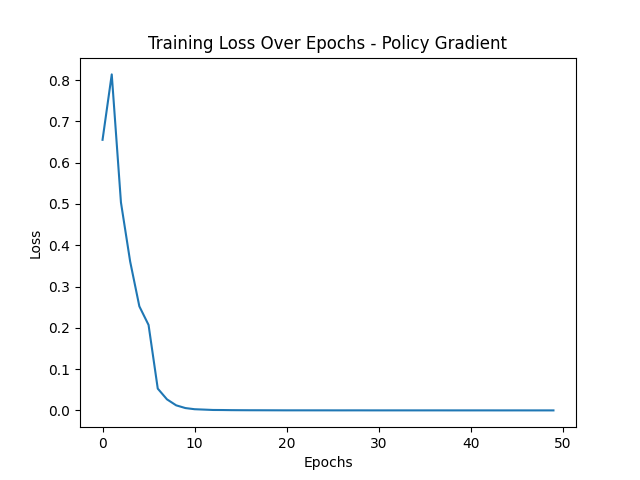
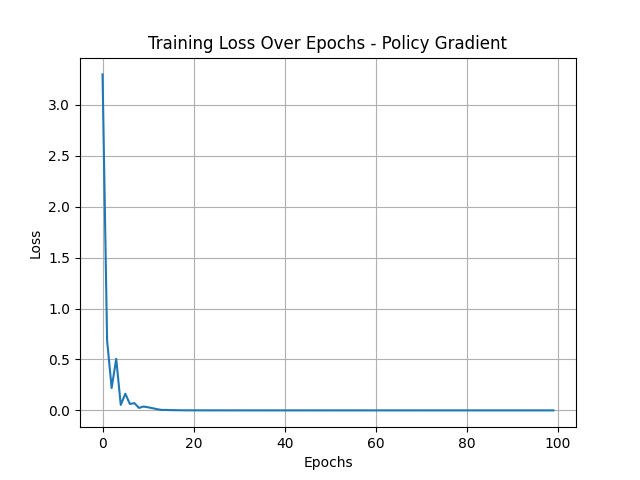
final results

diff --git a/training/rl/training.py b/training/rl/training.py
@@ -1,14 +1,27 @@
 import os
 import torch
+import random
+import numpy as np
 import matplotlib.pyplot as plt
 from models.rl.agent import Agent
 from utils.config_loader import LLM_CONFIG
 
+
+# Se aplica una semilla para reproducibilidad
+seed = 42
+random.seed(seed)
+np.random.seed(seed)
+torch.manual_seed(seed)
+
 loss_history = []
+avg_rewards = []
+avg_rewards_bandit_1 = []
+avg_rewards_bandit_2 = []
 
 
 
-num_epochs = 50
+
+num_epochs = 100
 bandit_1 = ["bean", "chickpea"]
 bandit_2 = ["lentil", "rice"]
 allowed_words = bandit_1 + bandit_2
@@ -45,41 +58,88 @@ optimizer = torch.optim.AdamW(
 )
 optimizer.load_state_dict(agent.checkpoints['optimizer_state_dict'])
 
+
+
 for epoch in range(num_epochs):
     agent.model.train()
     optimizer.zero_grad()
     total_loss = 0.0
+    total_reward = 0.0
+    total_reward_bandit_1 = 0.0
+    total_reward_bandit_2 = 0.0
+    n1 = len(prompts_bandit_1)
+    n2 = len(prompts_bandit_2)
     n_prompts = 0
 
     for prompt in prompts_bandit_1:
         action, log_prob, _ = agent.act(prompt)
-        reward = 1.0 if action in bandit_1 else -1.0
+        first_option_factor = np.random.choice([1, 0], p=[0.75, 0.25])
+        second_option_factor = np.random.choice([1, 0], p=[0.25, 0.75])
+        base_reward = 10.0
+        if action == bandit_1[0]:
+            reward = first_option_factor * base_reward
+        else:
+            reward = second_option_factor * base_reward
+
         loss = agent.policy_loss(log_prob, reward)
         total_loss += loss
+        total_reward += reward
+        total_reward_bandit_1 += reward
         n_prompts += 1
 
     for prompt in prompts_bandit_2:
         action, log_prob, _ = agent.act(prompt)
-        reward = 1.0 if action in bandit_2 else -0.1
+        first_option_factor = np.random.choice([1, 0], p=[0.75, 0.25])
+        second_option_factor = np.random.choice([1, 0], p=[0.25, 0.75])
+        base_reward = 1.0
+        if action == bandit_2[0]:
+            reward = first_option_factor * base_reward
+        else:
+            reward = second_option_factor * base_reward
         loss = agent.policy_loss(log_prob, reward)
         total_loss += loss
+        total_reward += reward
+        total_reward_bandit_2 += reward
         n_prompts += 1
 
+    total_prompts = n1 + n2
     total_loss /= n_prompts
-    loss_history.append(total_loss.item())
+    avg_reward = total_reward / total_prompts
 
- 
+    loss_history.append(total_loss.item())
+    avg_rewards.append(avg_reward)
+    avg_rewards_bandit_1.append(total_reward_bandit_1 / n1)
+    avg_rewards_bandit_2.append(total_reward_bandit_2 / n2)
+
+
     total_loss.backward()
     optimizer.step()
 
-    print(f"Epoch {epoch+1}/{num_epochs}, Total loss: {total_loss.item():.4f}")
+    print(f"Epoch {epoch+1}/{num_epochs}, Total loss: {total_loss.item():.4f}, Average reward: {avg_reward:.4f}")
 
 plt.plot(loss_history)
 plt.xlabel('Epochs')
 plt.ylabel('Loss')
 plt.title('Training Loss Epoch')
 plt.title('Training Loss Over Epochs - Policy Gradient')
+plt.grid()
 plt.savefig(os.path.join(os.getcwd(), "images","rl","training_loss.png"))
+
+plt.plot(avg_rewards, label="Average Reward (All Bandits)", color='purple')
+plt.xlabel("Epoch")
+plt.ylabel("Average Reward")
+plt.title("Overall Average Reward Over Epochs")
+plt.grid(True)
+plt.savefig(os.path.join("images", "rl", "avg_total_reward.png"))
+
+plt.plot(avg_rewards_bandit_1, label="Bandit 1 (bean vs chickpea)", color='green')
+plt.plot(avg_rewards_bandit_2, label="Bandit 2 (lentil vs rice)", color='orange')
+plt.xlabel("Epoch")
+plt.ylabel("Average Reward")
+plt.title("Average Reward per Bandit Over Epochs")
+plt.legend()
+plt.grid(True)
+plt.savefig(os.path.join("images", "rl", "reward_per_bandit.png"))
 
 # test_prompts = [
 #     "Which is better bean or lentil?",
